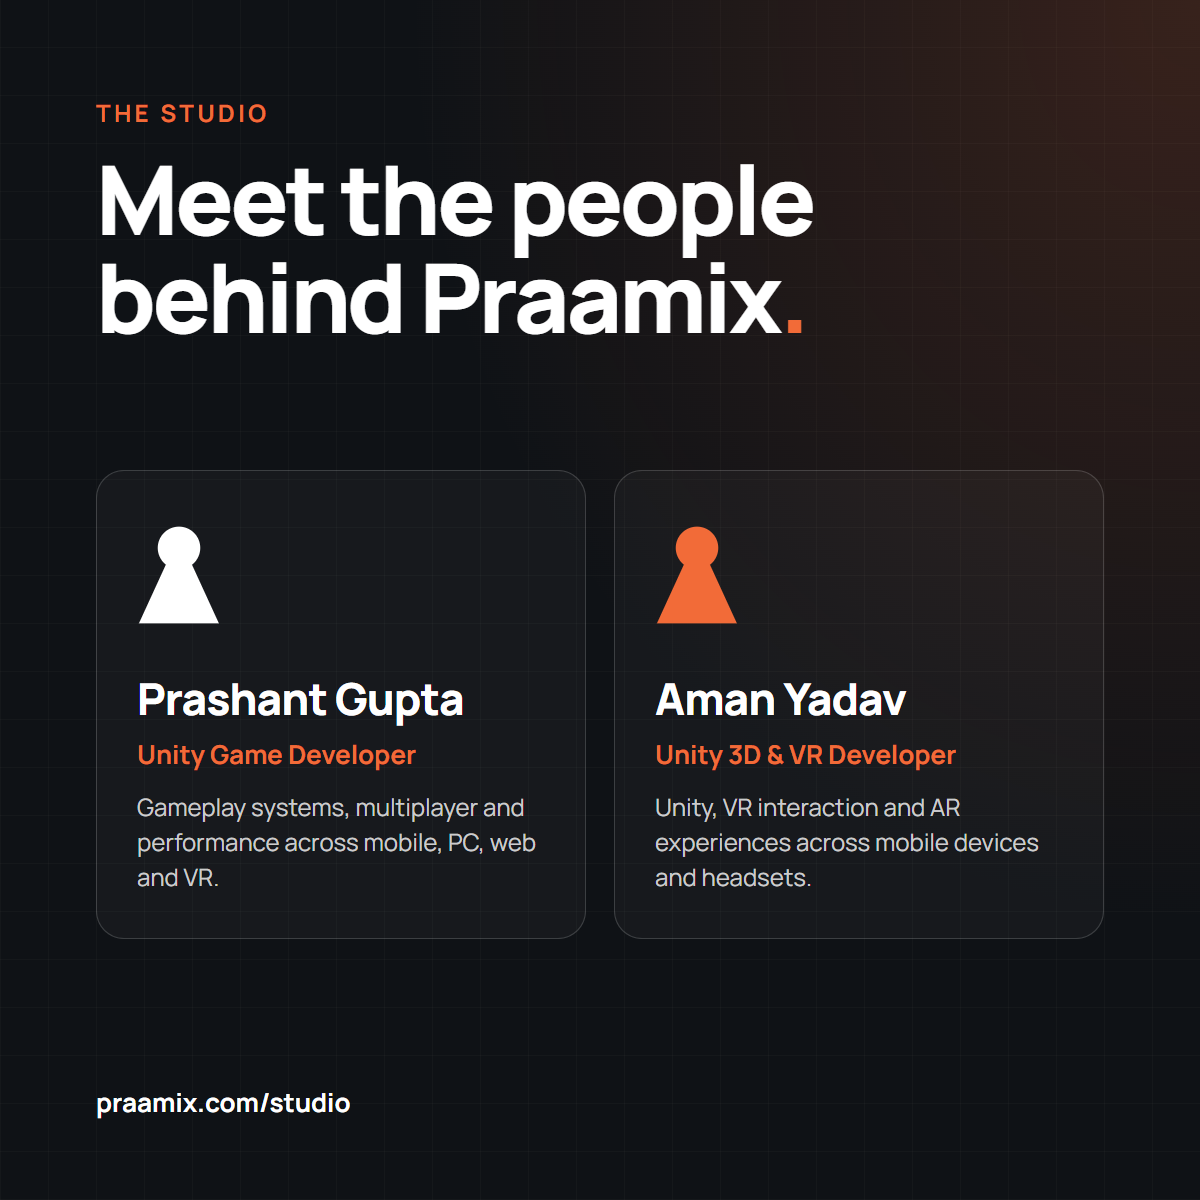
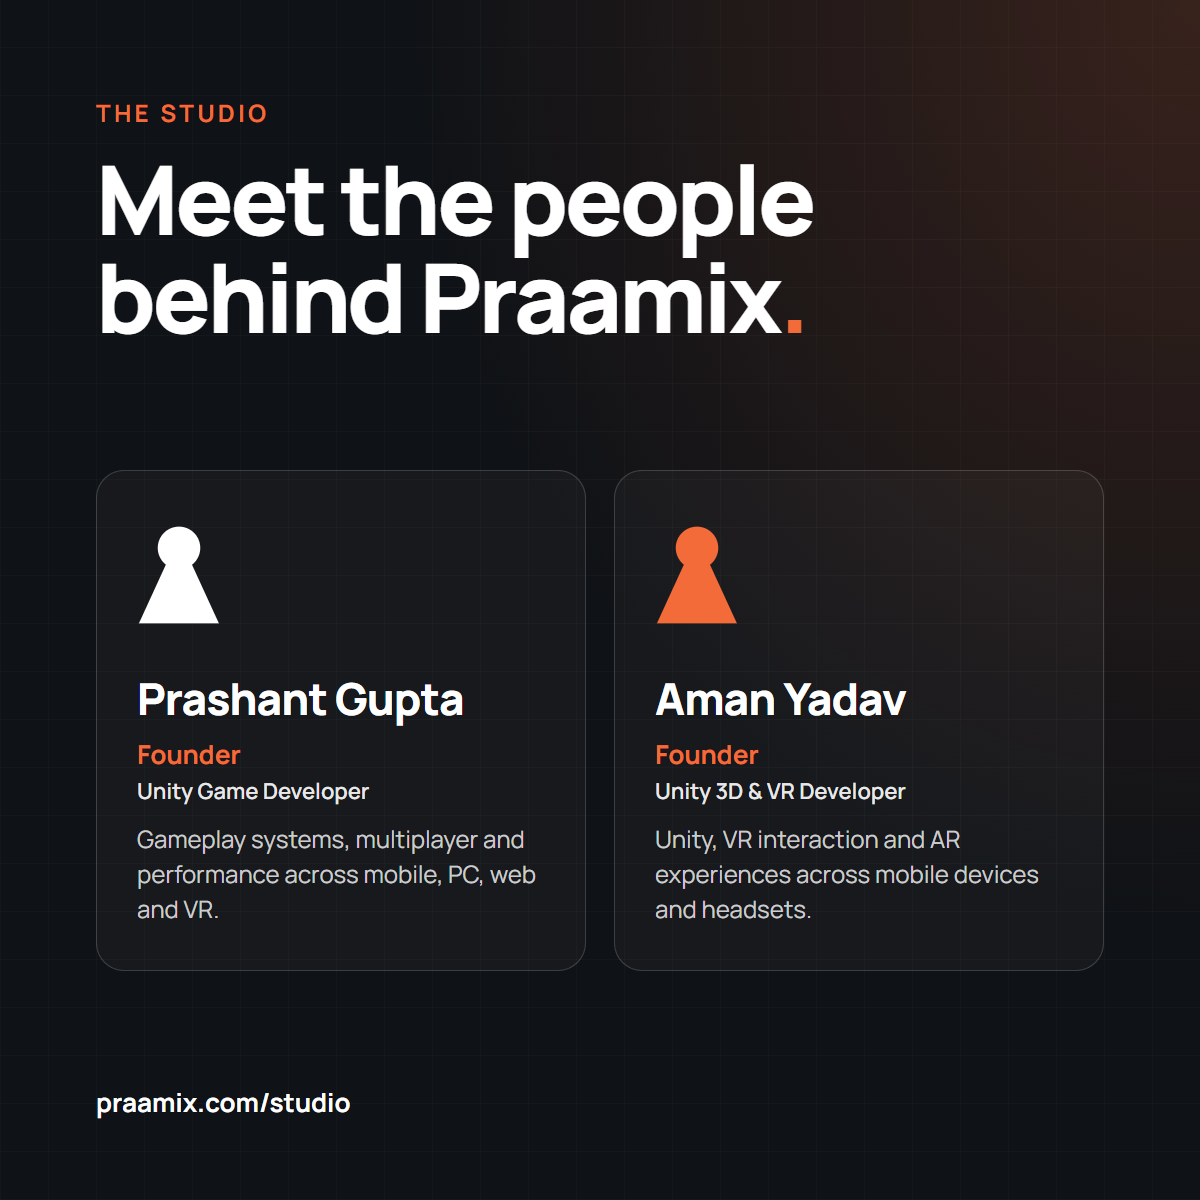
Name Prashant and Aman as Praamix's founders
Shows the confirmed title on the studio page and on the LinkedIn
"Meet the people" post image.

Changed region(s): [[0.0925, 0.6167, 0.4625, 0.7708], [0.5242, 0.6167, 0.8633, 0.7708]]

diff --git a/src/content/people.ts b/src/content/people.ts
@@ -5,7 +5,8 @@
  * the owner and reviewed on 15 November 2026.
  *
  *   - `role` describes the person's work. It is not a job title at Praamix.
- *   - Leave `title` empty until a corporate title is confirmed.
+ *   - Leave `title` empty until a corporate title is confirmed. Both
+ *     people were confirmed as founders by the owner on 26 November 2026.
  *   - Leave `portrait` as null until a genuine, approved photo is supplied.
  *     Never use a generated or stock face.
  *   - Work shown in a personal portfolio is not automatically Praamix work.
@@ -39,7 +40,7 @@ export const people: Person[] = [
     id: 'prashant-gupta',
     name: 'Prashant Gupta',
     role: 'Unity Game Developer',
-    title: '',
+    title: 'Founder',
     intro: 'Gameplay systems, multiplayer, and performance across mobile, PC, web, and VR.',
     bio: 'Prashant builds games with Unity and C#, focusing on gameplay systems, multiplayer, performance, and modular architecture. His portfolio spans mobile, PC, WebGL, and VR projects.',
     areas: ['Unity and C#', 'Gameplay systems', 'Multiplayer', 'Performance optimization'],
@@ -50,7 +51,7 @@ export const people: Person[] = [
     id: 'aman-yadav',
     name: 'Aman Yadav',
     role: 'Unity 3D & VR Developer',
-    title: '',
+    title: 'Founder',
     intro: 'Unity, VR interaction, and AR experiences across mobile devices and headsets.',
     bio: 'Aman develops games and immersive experiences with Unity and C#, with a focus on gameplay, VR interaction, and AR. His portfolio covers mobile and headset experiences, including work with AR Foundation.',
     areas: ['Unity and C#', 'VR interaction', 'AR Foundation', 'Mobile gameplay'],

diff --git a/brand/linkedin/README.md b/brand/linkedin/README.md
@@ -124,7 +124,7 @@ Indie Games
 A company page grows through the people who work there. Do this the same day:
 
 1. **Experience → Add position**
-   - Title: Prashant — `Unity Game Developer`; Aman — `Unity 3D & VR Developer` (as on praamix.com/studio; change if you hold a co-founder title)
+   - Title: `Founder` for both of you (confirmed 2026-11-26)
    - Company: type **Praamix** and pick the page from the dropdown, so the logo shows up and you appear under the page's People tab
    - Description (Prashant):
      ```
@@ -192,9 +192,9 @@ Tell us about your project: praamix.com/contact
 ```
 Meet the people behind Praamix. 👋
 
-Prashant Gupta, Unity Game Developer: gameplay systems, multiplayer and performance across mobile, PC, web and VR.
+Prashant Gupta, Founder and Unity Game Developer: gameplay systems, multiplayer and performance across mobile, PC, web and VR.
 
-Aman Yadav, Unity 3D & VR Developer: VR interaction and AR experiences across mobile devices and headsets.
+Aman Yadav, Founder and Unity 3D & VR Developer: VR interaction and AR experiences across mobile devices and headsets.
 
 See their work at praamix.com/studio
 
